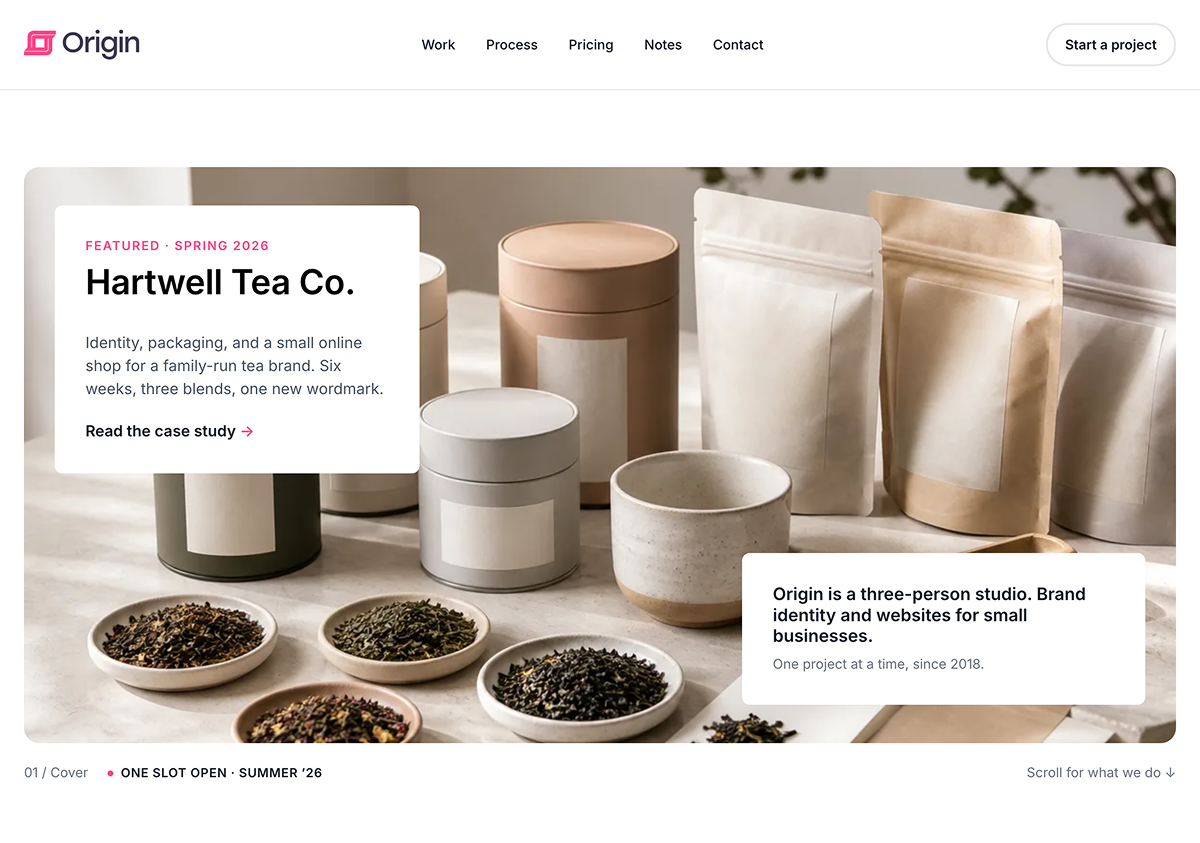
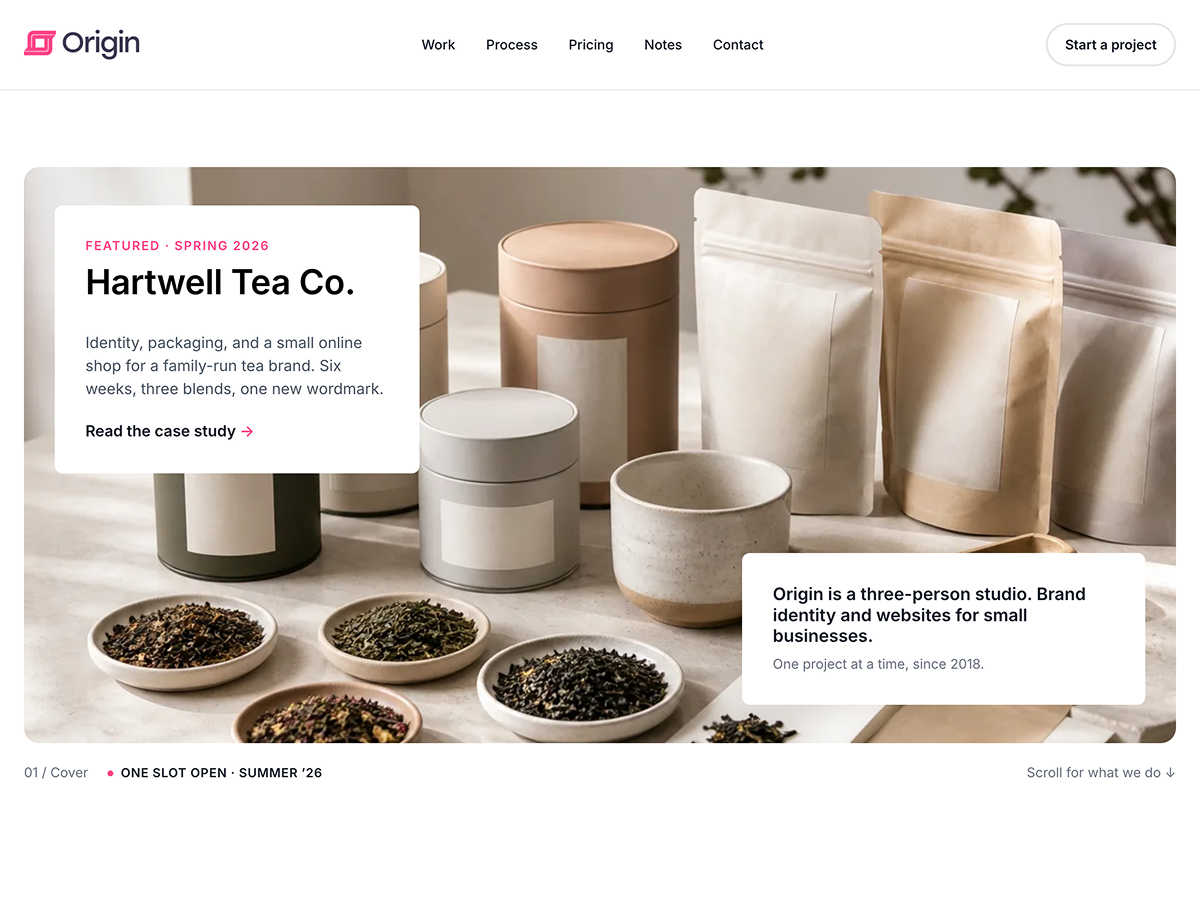
Prepare 1.0.0 public release

diff --git a/assets/styles/core-navigation.css b/assets/styles/core-navigation.css
@@ -1,4 +1,73 @@
+/* Navigation hover style variations for desktop, non-overlay menus. */
+.wp-block-navigation.is-style-origin-hover-accent .wp-block-navigation__responsive-container:not(.is-menu-open) .wp-block-navigation__container > .wp-block-navigation-item > .wp-block-navigation-item__content,
+.wp-block-navigation.is-style-origin-hover-accent .wp-block-navigation__responsive-container:not(.is-menu-open) .wp-block-navigation__container > .wp-block-navigation-item > .wp-block-navigation-submenu__toggle,
+.wp-block-navigation.is-style-origin-hover-pill .wp-block-navigation__responsive-container:not(.is-menu-open) .wp-block-navigation__container > .wp-block-navigation-item > .wp-block-navigation-item__content,
+.wp-block-navigation.is-style-origin-hover-pill .wp-block-navigation__responsive-container:not(.is-menu-open) .wp-block-navigation__container > .wp-block-navigation-item > .wp-block-navigation-submenu__toggle {
+	transition: color 0.15s ease;
+}
+
+.wp-block-navigation.is-style-origin-hover-accent .wp-block-navigation__responsive-container:not(.is-menu-open) .wp-block-navigation__container > .wp-block-navigation-item:hover > .wp-block-navigation-item__content,
+.wp-block-navigation.is-style-origin-hover-accent .wp-block-navigation__responsive-container:not(.is-menu-open) .wp-block-navigation__container > .wp-block-navigation-item:hover > .wp-block-navigation-submenu__toggle,
+.wp-block-navigation.is-style-origin-hover-accent .wp-block-navigation__responsive-container:not(.is-menu-open) .wp-block-navigation__container > .wp-block-navigation-item:focus-within > .wp-block-navigation-item__content,
+.wp-block-navigation.is-style-origin-hover-accent .wp-block-navigation__responsive-container:not(.is-menu-open) .wp-block-navigation__container > .wp-block-navigation-item:focus-within > .wp-block-navigation-submenu__toggle,
+.wp-block-navigation.is-style-origin-hover-accent .wp-block-navigation__responsive-container:not(.is-menu-open) .wp-block-navigation__container > .wp-block-navigation-item.current-menu-item > .wp-block-navigation-item__content,
+.wp-block-navigation.is-style-origin-hover-accent .wp-block-navigation__responsive-container:not(.is-menu-open) .wp-block-navigation__container > .wp-block-navigation-item.current-menu-item > .wp-block-navigation-submenu__toggle,
+.wp-block-navigation.is-style-origin-hover-accent .wp-block-navigation__responsive-container:not(.is-menu-open) .wp-block-navigation__container > .wp-block-navigation-item.current-menu-ancestor > .wp-block-navigation-item__content,
+.wp-block-navigation.is-style-origin-hover-accent .wp-block-navigation__responsive-container:not(.is-menu-open) .wp-block-navigation__container > .wp-block-navigation-item.current-menu-ancestor > .wp-block-navigation-submenu__toggle,
+.wp-block-navigation.is-style-origin-hover-accent .wp-block-navigation__responsive-container:not(.is-menu-open) .wp-block-navigation__container > .wp-block-navigation-item > .wp-block-navigation-item__content:focus-visible,
+.wp-block-navigation.is-style-origin-hover-accent .wp-block-navigation__responsive-container:not(.is-menu-open) .wp-block-navigation__container > .wp-block-navigation-item > .wp-block-navigation-submenu__toggle:focus-visible {
+	color: var(--wp--preset--color--primary);
+}
+
+.wp-block-navigation.is-style-origin-hover-pill .wp-block-navigation__responsive-container:not(.is-menu-open) .wp-block-navigation__container > .wp-block-navigation-item {
+	border-radius: 999px;
+	isolation: isolate;
+	position: relative;
+}
+
+.wp-block-navigation.is-style-origin-hover-pill .wp-block-navigation__responsive-container:not(.is-menu-open) .wp-block-navigation__container > .wp-block-navigation-item::before {
+	background-color: rgba(17, 24, 39, 0.04);
+	background-color: color-mix(in srgb, currentColor 4%, transparent);
+	border-radius: inherit;
+	content: "";
+	inset: -0.35em -0.75em;
+	opacity: 0;
+	pointer-events: none;
+	position: absolute;
+	transition: opacity 0.15s ease;
+	z-index: 0;
+}
+
+.wp-block-navigation.is-style-origin-hover-pill .wp-block-navigation__responsive-container:not(.is-menu-open) .wp-block-navigation__container > .wp-block-navigation-item:hover::before,
+.wp-block-navigation.is-style-origin-hover-pill .wp-block-navigation__responsive-container:not(.is-menu-open) .wp-block-navigation__container > .wp-block-navigation-item:focus-within::before,
+.wp-block-navigation.is-style-origin-hover-pill .wp-block-navigation__responsive-container:not(.is-menu-open) .wp-block-navigation__container > .wp-block-navigation-item.current-menu-item::before,
+.wp-block-navigation.is-style-origin-hover-pill .wp-block-navigation__responsive-container:not(.is-menu-open) .wp-block-navigation__container > .wp-block-navigation-item.current-menu-ancestor::before {
+	opacity: 1;
+}
+
+.wp-block-navigation.is-style-origin-hover-pill .wp-block-navigation__responsive-container:not(.is-menu-open) .wp-block-navigation__container > .wp-block-navigation-item > .wp-block-navigation-item__content,
+.wp-block-navigation.is-style-origin-hover-pill .wp-block-navigation__responsive-container:not(.is-menu-open) .wp-block-navigation__container > .wp-block-navigation-item > .wp-block-navigation-submenu__toggle {
+	position: relative;
+	z-index: 1;
+}
+
+.wp-block-navigation.is-style-origin-hover-pill .wp-block-navigation__responsive-container:not(.is-menu-open) .wp-block-navigation__container > .wp-block-navigation-item:hover > .wp-block-navigation-item__content,
+.wp-block-navigation.is-style-origin-hover-pill .wp-block-navigation__responsive-container:not(.is-menu-open) .wp-block-navigation__container > .wp-block-navigation-item:hover > .wp-block-navigation-submenu__toggle,
+.wp-block-navigation.is-style-origin-hover-pill .wp-block-navigation__responsive-container:not(.is-menu-open) .wp-block-navigation__container > .wp-block-navigation-item:focus-within > .wp-block-navigation-item__content,
+.wp-block-navigation.is-style-origin-hover-pill .wp-block-navigation__responsive-container:not(.is-menu-open) .wp-block-navigation__container > .wp-block-navigation-item:focus-within > .wp-block-navigation-submenu__toggle,
+.wp-block-navigation.is-style-origin-hover-pill .wp-block-navigation__responsive-container:not(.is-menu-open) .wp-block-navigation__container > .wp-block-navigation-item.current-menu-item > .wp-block-navigation-item__content,
+.wp-block-navigation.is-style-origin-hover-pill .wp-block-navigation__responsive-container:not(.is-menu-open) .wp-block-navigation__container > .wp-block-navigation-item.current-menu-item > .wp-block-navigation-submenu__toggle,
+.wp-block-navigation.is-style-origin-hover-pill .wp-block-navigation__responsive-container:not(.is-menu-open) .wp-block-navigation__container > .wp-block-navigation-item.current-menu-ancestor > .wp-block-navigation-item__content,
+.wp-block-navigation.is-style-origin-hover-pill .wp-block-navigation__responsive-container:not(.is-menu-open) .wp-block-navigation__container > .wp-block-navigation-item.current-menu-ancestor > .wp-block-navigation-submenu__toggle {
+	color: inherit;
+	text-decoration: none;
+}
+
 /* Navigation submenu presentation is outside current block/theme.json controls. */
+.wp-block-navigation__responsive-container:not(.is-menu-open) {
+	--origin-navigation-nested-submenu-offset: 6px;
+}
+
 .wp-block-navigation__responsive-container:not(.is-menu-open) .wp-block-navigation__submenu-container {
 	background: var(--wp--preset--color--surface-base);
 	border: none;
@@ -45,19 +114,71 @@
 	transform: rotate(-180deg);
 }
 
+/* Submenu hover text inherits by default; style variants override below. */
+.wp-block-navigation__responsive-container:not(.is-menu-open) .wp-block-navigation__submenu-container .wp-block-navigation-item:hover > .wp-block-navigation-item__content,
+.wp-block-navigation__responsive-container:not(.is-menu-open) .wp-block-navigation__submenu-container .wp-block-navigation-item:hover > .wp-block-navigation-submenu__toggle,
+.wp-block-navigation__responsive-container:not(.is-menu-open) .wp-block-navigation__submenu-container .wp-block-navigation-item:focus-within > .wp-block-navigation-item__content,
+.wp-block-navigation__responsive-container:not(.is-menu-open) .wp-block-navigation__submenu-container .wp-block-navigation-item:focus-within > .wp-block-navigation-submenu__toggle,
+.wp-block-navigation__responsive-container:not(.is-menu-open) .wp-block-navigation__submenu-container .wp-block-navigation-item.current-menu-item > .wp-block-navigation-item__content,
+.wp-block-navigation__responsive-container:not(.is-menu-open) .wp-block-navigation__submenu-container .wp-block-navigation-item.current-menu-item > .wp-block-navigation-submenu__toggle,
+.wp-block-navigation__responsive-container:not(.is-menu-open) .wp-block-navigation__submenu-container .wp-block-navigation-item.current-menu-ancestor > .wp-block-navigation-item__content,
+.wp-block-navigation__responsive-container:not(.is-menu-open) .wp-block-navigation__submenu-container .wp-block-navigation-item.current-menu-ancestor > .wp-block-navigation-submenu__toggle,
 .wp-block-navigation__responsive-container:not(.is-menu-open) .wp-block-navigation__submenu-container .wp-block-navigation-item__content:hover,
 .wp-block-navigation__responsive-container:not(.is-menu-open) .wp-block-navigation__submenu-container .wp-block-navigation-submenu__toggle:hover,
-.wp-block-navigation__responsive-container:not(.is-menu-open) .wp-block-navigation__submenu-container .wp-block-navigation-submenu__toggle:hover .wp-block-navigation__submenu-icon {
+.wp-block-navigation__responsive-container:not(.is-menu-open) .wp-block-navigation__submenu-container .wp-block-navigation-submenu__toggle:hover .wp-block-navigation__submenu-icon,
+.wp-block-navigation__responsive-container:not(.is-menu-open) .wp-block-navigation__submenu-container .wp-block-navigation-submenu__toggle:focus-visible,
+.wp-block-navigation__responsive-container:not(.is-menu-open) .wp-block-navigation__submenu-container .wp-block-navigation-submenu__toggle:focus-visible .wp-block-navigation__submenu-icon {
+	color: inherit;
+	text-decoration: none;
+}
+
+.wp-block-navigation.is-style-origin-hover-accent .wp-block-navigation__responsive-container:not(.is-menu-open) .wp-block-navigation__submenu-container .wp-block-navigation-item:hover > .wp-block-navigation-item__content,
+.wp-block-navigation.is-style-origin-hover-accent .wp-block-navigation__responsive-container:not(.is-menu-open) .wp-block-navigation__submenu-container .wp-block-navigation-item:hover > .wp-block-navigation-submenu__toggle,
+.wp-block-navigation.is-style-origin-hover-accent .wp-block-navigation__responsive-container:not(.is-menu-open) .wp-block-navigation__submenu-container .wp-block-navigation-item:focus-within > .wp-block-navigation-item__content,
+.wp-block-navigation.is-style-origin-hover-accent .wp-block-navigation__responsive-container:not(.is-menu-open) .wp-block-navigation__submenu-container .wp-block-navigation-item:focus-within > .wp-block-navigation-submenu__toggle,
+.wp-block-navigation.is-style-origin-hover-accent .wp-block-navigation__responsive-container:not(.is-menu-open) .wp-block-navigation__submenu-container .wp-block-navigation-item.current-menu-item > .wp-block-navigation-item__content,
+.wp-block-navigation.is-style-origin-hover-accent .wp-block-navigation__responsive-container:not(.is-menu-open) .wp-block-navigation__submenu-container .wp-block-navigation-item.current-menu-item > .wp-block-navigation-submenu__toggle,
+.wp-block-navigation.is-style-origin-hover-accent .wp-block-navigation__responsive-container:not(.is-menu-open) .wp-block-navigation__submenu-container .wp-block-navigation-item.current-menu-ancestor > .wp-block-navigation-item__content,
+.wp-block-navigation.is-style-origin-hover-accent .wp-block-navigation__responsive-container:not(.is-menu-open) .wp-block-navigation__submenu-container .wp-block-navigation-item.current-menu-ancestor > .wp-block-navigation-submenu__toggle,
+.wp-block-navigation.is-style-origin-hover-accent .wp-block-navigation__responsive-container:not(.is-menu-open) .wp-block-navigation__submenu-container .wp-block-navigation-item__content:hover,
+.wp-block-navigation.is-style-origin-hover-accent .wp-block-navigation__responsive-container:not(.is-menu-open) .wp-block-navigation__submenu-container .wp-block-navigation-submenu__toggle:hover,
+.wp-block-navigation.is-style-origin-hover-accent .wp-block-navigation__responsive-container:not(.is-menu-open) .wp-block-navigation__submenu-container .wp-block-navigation-submenu__toggle:hover .wp-block-navigation__submenu-icon,
+.wp-block-navigation.is-style-origin-hover-accent .wp-block-navigation__responsive-container:not(.is-menu-open) .wp-block-navigation__submenu-container .wp-block-navigation-submenu__toggle:focus-visible,
+.wp-block-navigation.is-style-origin-hover-accent .wp-block-navigation__responsive-container:not(.is-menu-open) .wp-block-navigation__submenu-container .wp-block-navigation-submenu__toggle:focus-visible .wp-block-navigation__submenu-icon {
 	color: var(--wp--preset--color--primary);
+}
+
+.wp-block-navigation.is-style-origin-hover-pill .wp-block-navigation__responsive-container:not(.is-menu-open) .wp-block-navigation-submenu__toggle,
+.wp-block-navigation.is-style-origin-hover-pill .wp-block-navigation__responsive-container:not(.is-menu-open) .wp-block-navigation-submenu__toggle:hover,
+.wp-block-navigation.is-style-origin-hover-pill .wp-block-navigation__responsive-container:not(.is-menu-open) .wp-block-navigation-submenu__toggle:focus,
+.wp-block-navigation.is-style-origin-hover-pill .wp-block-navigation__responsive-container:not(.is-menu-open) .wp-block-navigation-submenu__toggle:focus-visible {
+	background: transparent;
+	border: none;
+	box-shadow: none;
+	color: inherit;
+}
+
+.wp-block-navigation.is-style-origin-hover-pill .wp-block-navigation__responsive-container:not(.is-menu-open) .wp-block-navigation__submenu-container .wp-block-navigation-item {
+	border-radius: 8px;
+	transition: background-color 0.15s ease;
+}
+
+.wp-block-navigation.is-style-origin-hover-pill .wp-block-navigation__responsive-container:not(.is-menu-open) .wp-block-navigation__submenu-container .wp-block-navigation-item:hover,
+.wp-block-navigation.is-style-origin-hover-pill .wp-block-navigation__responsive-container:not(.is-menu-open) .wp-block-navigation__submenu-container .wp-block-navigation-item:focus-within,
+.wp-block-navigation.is-style-origin-hover-pill .wp-block-navigation__responsive-container:not(.is-menu-open) .wp-block-navigation__submenu-container .wp-block-navigation-item.current-menu-item,
+.wp-block-navigation.is-style-origin-hover-pill .wp-block-navigation__responsive-container:not(.is-menu-open) .wp-block-navigation__submenu-container .wp-block-navigation-item.current-menu-ancestor {
+	background-color: rgba(17, 24, 39, 0.04);
+	background-color: color-mix(in srgb, currentColor 4%, transparent);
 }
 
 .wp-block-navigation__responsive-container:not(.is-menu-open) .has-child {
 	position: relative;
 }
 
+/* Shared by default Navigation, Hover Accent, and Hover Pill variants. */
 .wp-block-navigation__responsive-container:not(.is-menu-open) .wp-block-navigation__submenu-container .wp-block-navigation__submenu-container {
 	left: 100%;
-	margin-left: 0;
+	margin-left: var(--origin-navigation-nested-submenu-offset);
 	margin-top: calc(var(--wp--preset--spacing--small) * -1);
 	opacity: 0;
 	pointer-events: none;
@@ -76,8 +197,8 @@
 	align-items: center;
 	display: flex;
 	flex-wrap: nowrap;
-	margin-right: calc(-1 * var(--wp--preset--spacing--small));
-	padding-right: calc(var(--wp--preset--spacing--medium) + var(--wp--preset--spacing--small));
+	margin-right: 0;
+	padding-right: 0;
 }
 
 .wp-block-navigation__responsive-container:not(.is-menu-open) .wp-block-navigation__submenu-container .has-child > .wp-block-navigation-item__content {

diff --git a/style.css b/style.css
@@ -7,7 +7,7 @@ Description: Build a WordPress site that looks designed, not assembled. A Full S
 Requires at least: 7.0
 Tested up to: 7.0
 Requires PHP: 7.4
-Version: 0.1.0
+Version: 1.0.0
 License: GNU General Public License v2 or later
 License URI: https://www.gnu.org/licenses/gpl-2.0.html
 Text Domain: origin

diff --git a/functions.php b/functions.php
@@ -320,6 +320,10 @@ if ( ! function_exists( 'origin_register_block_styles' ) ) {
 				array( 'name' => 'list-check', 'label' => __( 'Check', 'origin' ) ),
 				array( 'name' => 'list-check-circle', 'label' => __( 'Check Circle', 'origin' ) ),
 			),
+			'core/navigation'    => array(
+				array( 'name' => 'origin-hover-accent', 'label' => __( 'Hover Accent', 'origin' ) ),
+				array( 'name' => 'origin-hover-pill', 'label' => __( 'Hover Pill', 'origin' ) ),
+			),
 			'core/separator'     => array(
 				array( 'name' => 'separator-dotted', 'label' => __( 'Dotted', 'origin' ) ),
 				array( 'name' => 'separator-thin', 'label' => __( 'Thin', 'origin' ) ),

diff --git a/patterns/header-default.php b/patterns/header-default.php
@@ -16,6 +16,6 @@
 <div class="wp-block-group"><!-- wp:site-title {"level":0,"style":{"spacing":{"margin":{"bottom":"0px","top":"0px"}},"elements":{"link":{"color":{"text":"var:preset|color|text-heading"},":hover":{"color":{"text":"var:preset|color|primary"}}}}},"textColor":"text-heading"} /--></div>
 <!-- /wp:group -->
 
-<!-- wp:navigation {"ref":4,"overlay":"mobile-menu","textColor":"text-heading","className":"origin-main-nav","style":{"spacing":{"blockGap":"3rem"},"typography":{"fontWeight":"500","fontStyle":"normal"},"elements":{"link":{"color":{"text":"var:preset|color|text-primary"},":hover":{"color":{"text":"var:preset|color|primary"}}}}},"fontSize":"small","layout":{"type":"flex","justifyContent":"center","flexWrap":"wrap"}} /--></div>
+<!-- wp:navigation {"ref":4,"overlay":"mobile-menu","textColor":"text-heading","className":"origin-main-nav is-style-origin-hover-pill","style":{"spacing":{"blockGap":"3rem"},"typography":{"fontWeight":"500","fontStyle":"normal"}},"fontSize":"small","layout":{"type":"flex","justifyContent":"center","flexWrap":"wrap"}} /--></div>
 <!-- /wp:group --></header>
 <!-- /wp:group -->